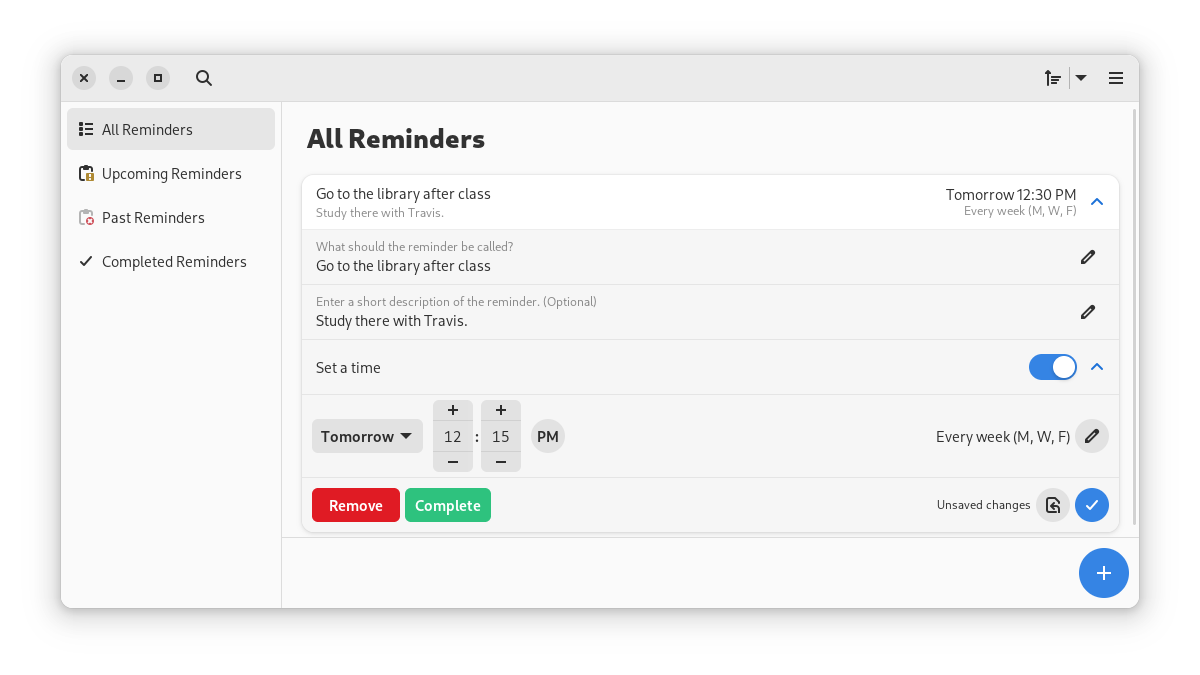
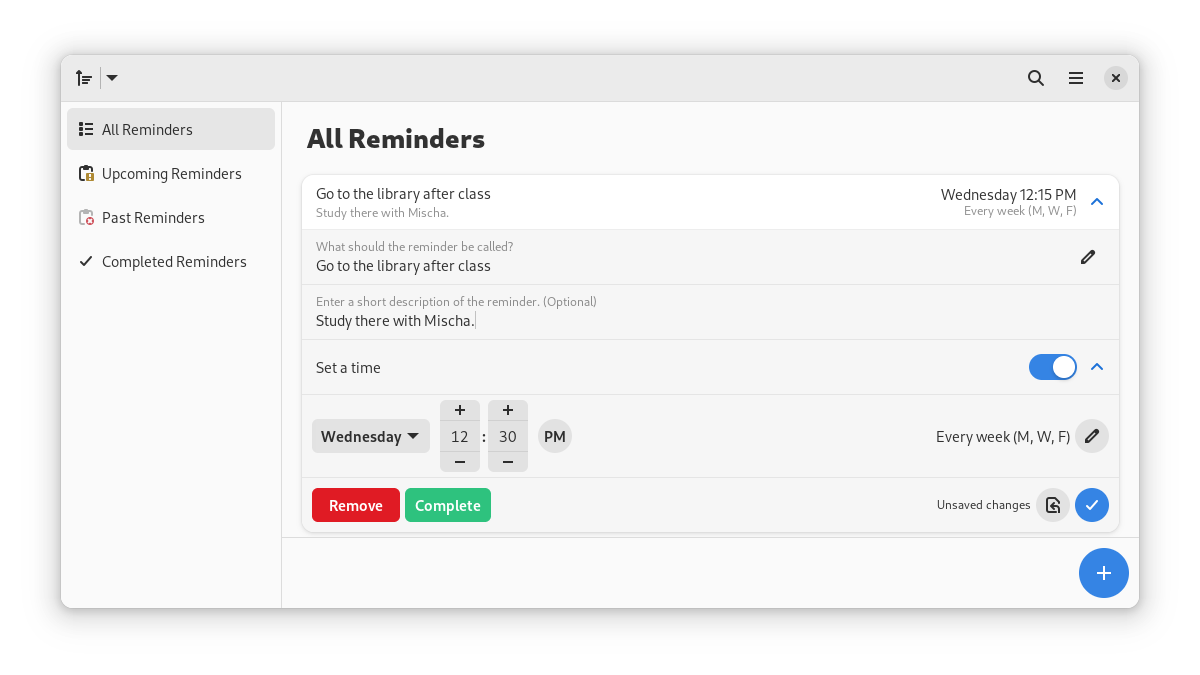
Remove search bar and add sensitive transition on buttons

diff --git a/src/browser/resources/stylesheet.css b/src/browser/resources/stylesheet.css
@@ -22,6 +22,10 @@
     color: @accent_bg_color;
 }
 
+button, splitbutton {
+  transition-property: outline-color, outline-width, outline-offset, background, filter;
+}
+
 label.time {
     font-weight: bold;
     margin: 0 2px;

diff --git a/src/browser/main_window.py b/src/browser/main_window.py
@@ -94,7 +94,7 @@ class MainWindow(Adw.ApplicationWindow):
     sort_button = Gtk.Template.Child()
     flap = Gtk.Template.Child()
     flap_button_revealer = Gtk.Template.Child()
-    search_bar = Gtk.Template.Child()
+    search_revealer = Gtk.Template.Child()
     search_entry = Gtk.Template.Child()
 
     def __init__(self, page: str, *args, **kwargs):
@@ -115,7 +115,8 @@ class MainWindow(Adw.ApplicationWindow):
         self.create_action('upcoming', lambda *args: self.upcoming_reminders())
         self.create_action('past', lambda *args: self.past_reminders())
         self.create_action('completed', lambda *args: self.completed_reminders())
-        self.create_action('search', lambda *args: self.search_bar.set_search_mode(True), accels=['<Ctrl>f'])
+        self.create_action('search', lambda *args: self.search_revealer.set_reveal_child(True), accels=['<Ctrl>f'])
+        self.search_entry.connect('stop-search', lambda *args: self.search_revealer.set_reveal_child(False))
         self.settings_create_action('sort')
         self.settings_create_action('descending-sort')
         self.app.settings.connect('changed::sort', self.set_sort)
@@ -352,6 +353,7 @@ class MainWindow(Adw.ApplicationWindow):
             self.flap.set_reveal_flap(False)
 
     def stop_search(self):
+        self.search_entry.set_text('')
         self.flap.set_fold_policy(Adw.FlapFoldPolicy.AUTO)
         self.sidebar_list.set_sensitive(True)
         self.reminders_list.set_placeholder(self.placeholder)
@@ -397,6 +399,7 @@ class MainWindow(Adw.ApplicationWindow):
 
     def start_search(self):
         self.searching = True
+        self.sort_button.set_sensitive(False)
 
         self.reminders_list.set_placeholder(self.search_placeholder)
         self.reminders_list.set_filter_func(self.search_filter)
@@ -404,7 +407,7 @@ class MainWindow(Adw.ApplicationWindow):
 
     @Gtk.Template.Callback()
     def show_flap_button(self, flap = None, data = None):
-        if self.search_bar.get_search_mode():
+        if self.search_revealer.get_reveal_child():
             self.flap_button_revealer.set_reveal_child(False)
         else:
             self.flap_button_revealer.set_reveal_child(self.flap.get_folded())
@@ -412,7 +415,7 @@ class MainWindow(Adw.ApplicationWindow):
     @Gtk.Template.Callback()
     def search_enabled_cb(self, entry, data):
         self.show_flap_button()
-        if self.search_bar.get_search_mode():
+        if self.search_revealer.get_reveal_child():
             self.search_changed_cb()
             self.search_entry.grab_focus()
             self.flap.set_fold_policy(Adw.FlapFoldPolicy.ALWAYS)
@@ -431,6 +434,7 @@ class MainWindow(Adw.ApplicationWindow):
             self.page_label.set_label(_(f"Searching '{text}'"))
         else:
             self.searching = False
+            self.sort_button.set_sensitive(True)
             self.reminders_list.set_filter_func(self.all_filter)
             self.reminders_list.set_sort_func(self.sort_func)
             self.page_label.set_label(_('Start typing to search'))

diff --git a/src/browser/application.py b/src/browser/application.py
@@ -274,7 +274,7 @@ class Remembrance(Adw.Application):
             self.win.destroy()
 
     def cancel_close(self):
-        self.win.search_bar.set_search_mode(False)
+        self.win.search_revealer.set_reveal_child(False)
         for reminder in self.unsaved_reminders:
             reminder.set_expanded(True)
         self.win.selected = self.win.all_row
